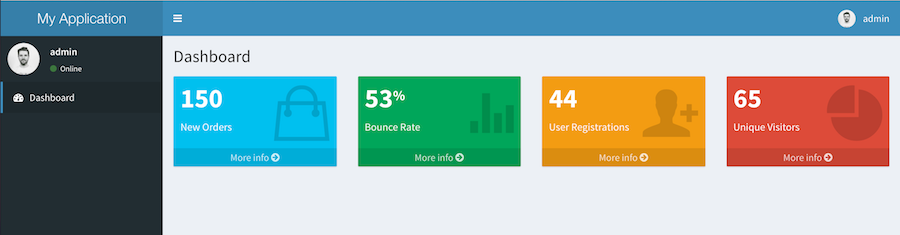
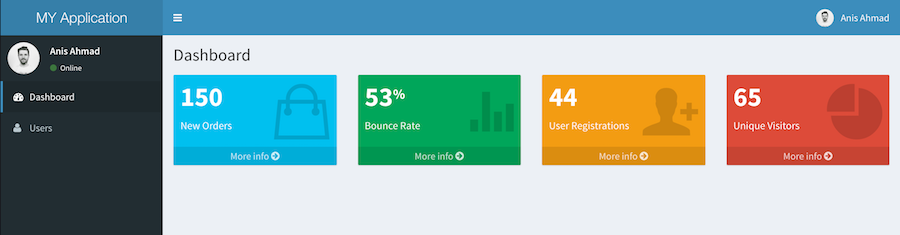
Forgot/Reset password Done. User Profile, Edit, Enable/Disable added.

diff --git a/src/AppBundle/Controller/UserController.php b/src/AppBundle/Controller/UserController.php
@@ -35,8 +35,9 @@ class UserController extends Controller
                 if(isset($data['lastName'])) $user->setLastName($data['lastName']);
                 if(isset($data['designation'])) $user->setDesignation($data['designation']);
 
-                $helper->addRole($data['username'], 'ROLE_'. strtoupper($data['user_type']));
+                $user->addRole('ROLE_'. strtoupper($data['user_type']));
                 $manager->updateUser($user, true);
+                $this->getDoctrine()->getManager()->flush();
 
                 $this->_welcomeResetRequest($user, $data['user_type']);
                 $this->addFlash('success','User created successfully.');
@@ -46,6 +47,65 @@ class UserController extends Controller
         }
 
         return $this->render('AppBundle:User:create.html.twig', $data);
+    }
+
+    /**
+     * @Route("/admin/users/{id}/update", name="admin_user_update")
+     * @Security("has_role('ROLE_ADMIN')")
+     */
+    public function updateUserAction(User $user, Request $request)
+    {
+        $data = ['targetUser' => $user];
+
+        if('POST' == $request->getMethod()) {
+            $data = array_merge($data, $request->request->all());
+            $errors = $this->_validateUserData($data, $user);
+            if(count($errors) > 0) {
+                $data['errors'] = $errors;
+            } else {
+
+                if(isset($data['firstName'])) $user->setFirstName($data['firstName']);
+                if(isset($data['lastName'])) $user->setLastName($data['lastName']);
+                if(isset($data['designation'])) $user->setDesignation($data['designation']);
+
+                $role = 'ROLE_'. strtoupper($data['user_type']);
+                if(!in_array($role, $user->getRoles())) {
+                    $roles = in_array('ROLE_SUPER_ADMIN', $user->getRoles()) ? ['ROLE_SUPER_ADMIN'] : [];
+                    $roles[] = 'ROLE_'. strtoupper($data['user_type']);
+                    $user->setRoles($roles);
+                }
+
+                $this->get('fos_user.user_manager')->updateUser($user, true);
+                $this->addFlash('success', 'User has been updated!');
+                return $this->redirect($this->generateUrl('app_user_show', ['id' => $user->getId()]));
+            }
+        }
+
+        return $this->render('AppBundle:User:create.html.twig', $data);
+    }
+
+    /**
+     * @Route("admin/users/{id}/toggle", name="user_profile_toggle", methods="POST")
+     * @Security("has_role('ROLE_ADMIN')")
+     */
+    public function toggleAction(User $user, Request $request)
+    {
+        $message = 'Invalid action, not applied';
+        switch ($request->request->get('action')) {
+            case "disable":
+                $user->setEnabled(false);
+                $message = 'User has been disabled!';
+                break;
+            case "enable":
+                $user->setEnabled(true);
+                $message = 'User has been enabled!';
+                break;
+        }
+
+        $this->get('fos_user.user_manager')->updateUser($user, true);
+        $this->addFlash('success', $message);
+
+        return $this->redirect($this->generateUrl('app_user_show', ['id' => $user->getId()]));
     }
 
     private function _validateUserData($data, User $user = null)

diff --git a/src/AppBundle/Entity/User.php b/src/AppBundle/Entity/User.php
@@ -4,6 +4,7 @@ namespace AppBundle\Entity;
 
 use Doctrine\ORM\Mapping as ORM;
 use FOS\UserBundle\Model\User as BaseUser;
+use Gedmo\Blameable\Traits\BlameableEntity;
 use Gedmo\Timestampable\Traits\TimestampableEntity;
 
 use Symfony\Component\Validator\Constraints as Assert;
@@ -20,7 +21,8 @@ use Symfony\Bridge\Doctrine\Validator\Constraints\UniqueEntity;
  */
 class User extends BaseUser
 {
-    use TimestampableEntity;
+    use TimestampableEntity,
+        BlameableEntity;
 
     /**
      * @ORM\Id
@@ -247,14 +249,12 @@ class User extends BaseUser
         if(0 == count($roles)) {
             return false;
         } else if(1 == count($roles)) {
-            return trim($roles[0], 'ROLE_');
+            return str_replace('ROLE_', '', $roles[0]);
         } else if(2 == count($roles) && in_array('ROLE_USER', $roles)) {
             array_splice($roles, array_search('ROLE_USER', $roles), 1);
-            return trim(current($roles), 'ROLE_');
+            return str_replace('ROLE_', '', $roles[0]);
         } else {
             return implode(', ', $roles);
         }
-        var_dump($roles);
-        die('Died in ' . __FILE__ . ' at line ' . __LINE__);
     }
 }

diff --git a/src/AppBundle/Controller/DashboardController.php b/src/AppBundle/Controller/DashboardController.php
@@ -11,15 +11,15 @@ class DashboardController extends Controller
 {
     /**
      * @Route("/", name="dashboard")
-     * @Security("has_role('ROLE_ADMIN')")
      */
     public function indexAction()
     {
         $authorization = $this->get('security.authorization_checker');
+        
         if ($authorization->isGranted('ROLE_ADMIN')) {
             return $this->render("AppBundle:Dashboard:index.html.twig");
         } else {
-            return $this->createAccessDeniedException('So far, only ROLE_ADMIN has a dashboard');
+            return $this->render("AppBundle:Dashboard:other.html.twig");
         }
     }
 }

diff --git a/README.md b/README.md
@@ -15,9 +15,11 @@ The following things are provided pre-configured -
 Screenshots
 ----------------
 
-![Login Page](screens/login.png)  
-
 ![Dashboard Page](screens/dashboard.png)
+
+![User List](screens/user_list.png)
+
+![Profile Page](screens/profile.png)
 
 
 Installation
@@ -70,7 +72,7 @@ Installation
     php app/console doctrine:schema:create
     ```
 
-7. Create an admin user (enter ROLE_SUPER_ADMIN when asked):
+7. Create a super admin to access dashboard:
 
     ```
     php app/console fos:user:create admin --super-admin
